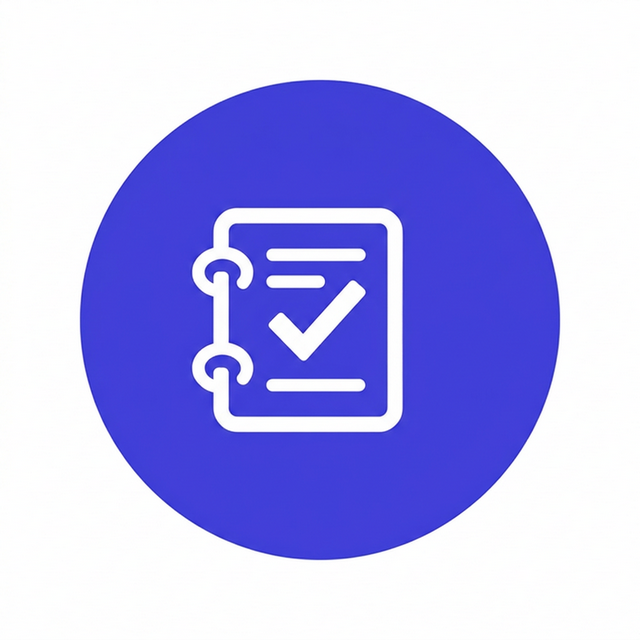
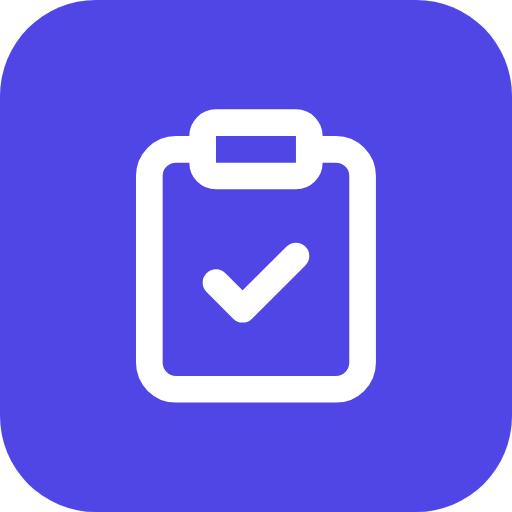
fix: 로고 SVG 아이콘 교체, 파비콘 일치, 모바일 텍스트 줄바꿈 수정

diff --git a/app/Header.tsx b/app/Header.tsx
@@ -1,9 +1,8 @@
 "use client";
 
 import Link from "next/link";
-import Image from "next/image";
 import { usePathname } from 'next/navigation';
-import { MessageCircle, Twitter, Link as LinkIcon } from 'lucide-react';
+import { MessageCircle, Twitter, Link as LinkIcon, ClipboardCheck } from 'lucide-react';
 import { useToast } from './Toast';
 
 const SITE_URL = "https://duckootest.pages.dev";
@@ -65,7 +64,7 @@ export default function Header() {
   return (
     <header className="topbar glass-header">
       <Link href="/" className="brand">
-        <Image src="/logo.png" alt="덕후테스트 로고" width={40} height={40} className="brand-logo" />
+        <ClipboardCheck size={28} className="brand-icon" />
         <span className="brand-text">덕후테스트</span>
       </Link>
       <nav className="navLinks">

diff --git a/app/globals.css b/app/globals.css
@@ -92,7 +92,7 @@ a:hover {
 .brand {
   display: flex;
   align-items: center;
-  gap: 10px;
+  gap: 6px;
   font-size: 24px;
   font-weight: 800;
   color: var(--text-color);
@@ -103,9 +103,9 @@ a:hover {
   text-decoration: none;
 }
 
-.brand-logo {
-  border-radius: 8px;
-  object-fit: contain;
+.brand-icon {
+  color: var(--primary-color);
+  flex-shrink: 0;
 }
 
 .brand-text {
@@ -270,6 +270,8 @@ p {
   letter-spacing: 0.05em;
   margin-bottom: 16px;
   box-shadow: 0 4px 10px rgba(225, 29, 72, 0.2);
+  white-space: nowrap;
+  flex-shrink: 0;
 }
 
 /* Content Pages (About, Privacy, Terms) */
@@ -628,8 +630,8 @@ p {
 
 .accordion-card.expanded .card-header {
   background: transparent;
-  /* Remove gradient */
   padding: 32px 32px 16px 32px;
+  flex-wrap: wrap;
 }
 
 .accordion-card.expanded .accordion-title {
